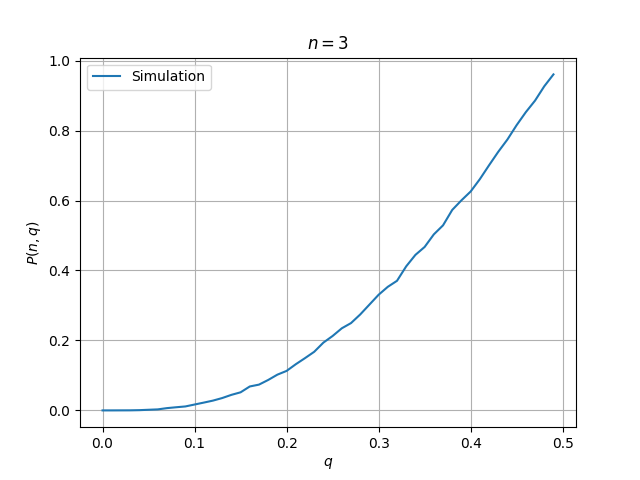
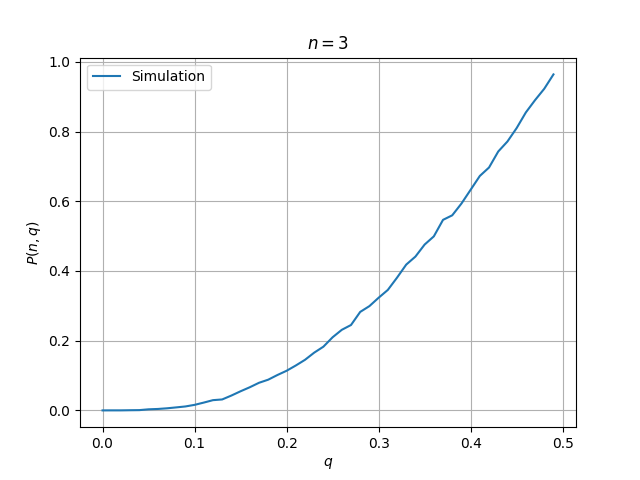
Update double spending attack simulation

diff --git a/Lab3/simulation.py b/Lab3/simulation.py
@@ -2,15 +2,17 @@ from random import uniform
 
 
 def pbb_adv_win(n: int, q: float, no_attacks: int=10000) -> float:
+    print(f"\tq={q}")
     successful_attacks = 0
     for i in range(no_attacks):
         successful_attacks += double_spending_attack(n=n, q=q)
     return successful_attacks/no_attacks
 
 
-def double_spending_attack(n: int, q: float, max_diff: int = 50) -> int:
+def double_spending_attack(n: int, q: float, max_blocks: int=5000) -> int:
     adversary_blocks: int = 0
     fair_users_blocks: int = 0
+    blocks_after_n: int = 0
 
     while True:
         if uniform(0, 1) <= q:
@@ -19,9 +21,9 @@ def double_spending_attack(n: int, q: float, max_diff: int = 50) -> int:
            fair_users_blocks += 1
 
         if fair_users_blocks >= n:
+            blocks_after_n += 1
+
             if adversary_blocks >= fair_users_blocks:
                 return 1
-            if fair_users_blocks - adversary_blocks > max_diff:
+            if blocks_after_n >= max_blocks:
                 return 0
-            # if fair_users_blocks >= n + max_diff:
-            #     return 0

diff --git a/Lab3/plotter.py b/Lab3/plotter.py
@@ -1,7 +1,7 @@
 import numpy as np
 from matplotlib import pyplot as plt
 
-from simulation import double_spending_attack, pbb_adv_win
+from simulation import pbb_adv_win
 from theoretical_analysis import pbb_adv_win_nakamoto, pbb_adv_win_grunspan, find_n
 
 def save_plot(data: dict, title: str, xlabel: str, ylabel: str, filename: str, scatter: bool = True) -> None:
@@ -26,7 +26,7 @@ def plot_pbb():
     q_values = [*np.arange(0.0, 0.5, 0.01)]
 
     for n in n_values:
-        print(n)
+        print(f"n={n}")
         nakamoto = list(map(lambda q: pbb_adv_win_nakamoto(n=n, q=q), q_values))
         grunspan = list(map(lambda q: pbb_adv_win_grunspan(n=n, q=q), q_values))
         data = {'x': q_values, 'plots':[{'y': nakamoto, 'label': "Nakamoto"},
